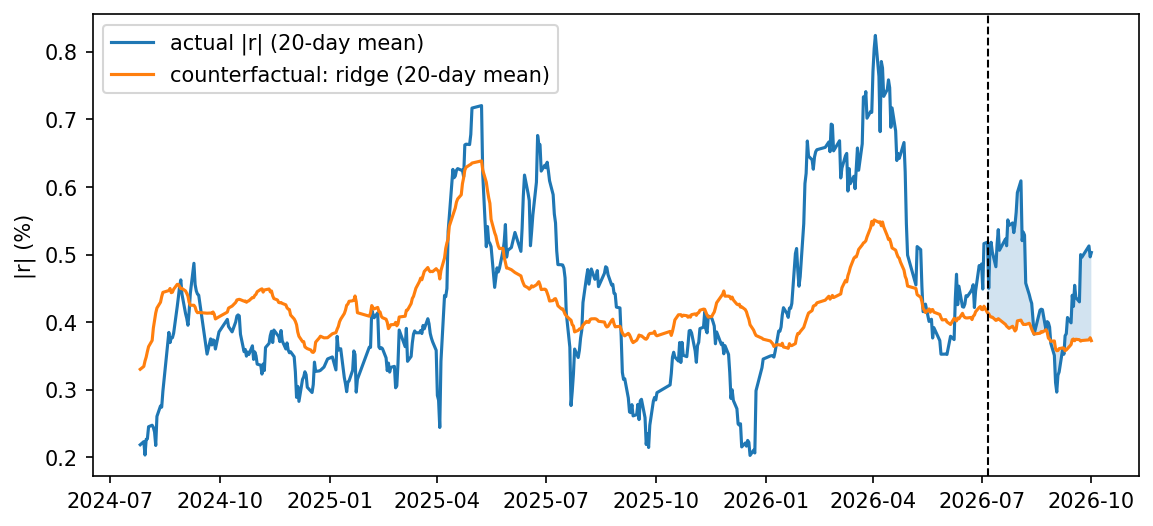
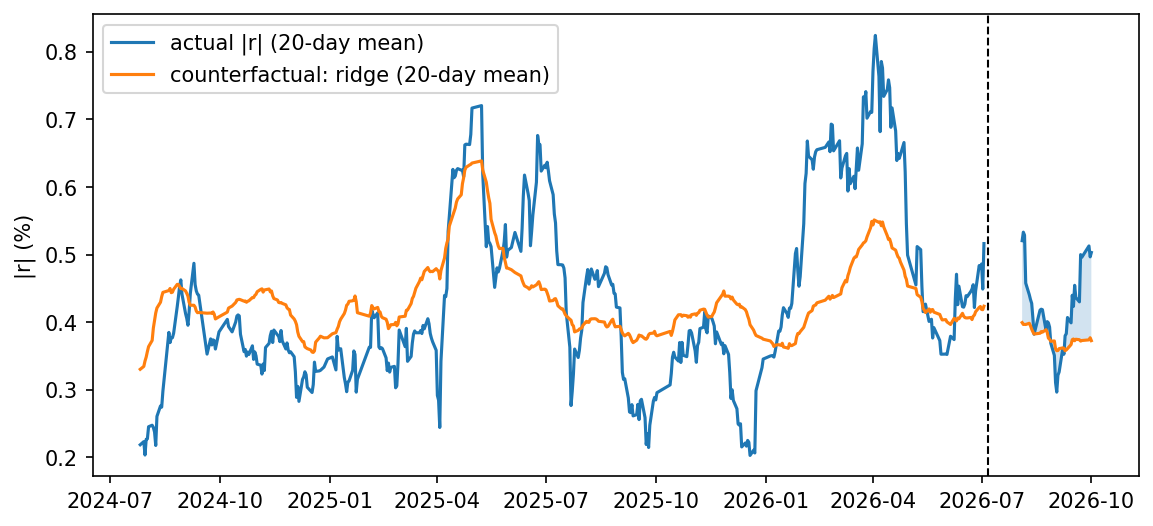
fix: post-hoc inference checks, stale VIX default, rolling means across reform date
Added after seeing results (spec values unchanged, see analysis_spec.md):
- T8: HC3 row, placebo tau range and rejection share, minimum detectable effect.
  Newey-West CIs are too narrow: 21% of placebo dates reject at 5%.
- T7: small-sample p-value and out-of-sample residual for the 60 days before
  the reform. The model already under-predicted before the reform.
- forecast_model.json: vix_default used a one-day-stale value (bug).
- F4, F6: 20-day means no longer average across the reform date.

Changed region(s): [[0.843, 0.3346, 0.9055, 0.6388]]

diff --git a/03_ai.py b/03_ai.py
@@ -34,10 +34,12 @@ def scores(y: pd.Series, yhat, bench) -> dict:
 
 
 def nw_mean(x) -> dict:
-    """평균과 Newey–West(시차 5) 95% 신뢰구간·p값."""
-    r = sm.OLS(np.asarray(x, float), np.ones(len(x))).fit(cov_type="HAC", cov_kwds={"maxlags": 5})
+    """평균과 Newey–West(시차 5) 95% 신뢰구간·p값 (사양). p_small은 소표본 보정 + t분포로 다시 잰 p값."""
+    y, one = np.asarray(x, float), np.ones(len(x))
+    r = sm.OLS(y, one).fit(cov_type="HAC", cov_kwds={"maxlags": 5})
+    small = sm.OLS(y, one).fit(cov_type="HAC", cov_kwds={"maxlags": 5, "use_correction": True}, use_t=True)
     lo, hi = r.conf_int()[0]
-    return {"mean": r.params[0], "lo": lo, "hi": hi, "p": r.pvalues[0], "n": len(x)}
+    return {"mean": r.params[0], "lo": lo, "hi": hi, "p": r.pvalues[0], "p_small": small.pvalues[0], "n": len(x)}
 
 
 # %% AI-1 반사실: 글로벌 요인만으로 '전환이 없었다면'의 |r|. 원화 자신의 과거 변동성은 넣지 않는다.
@@ -73,15 +75,26 @@ def cf(t0: int, n: int = fx.N_MAIN) -> pd.DataFrame:
 post = cf(0)
 placebo = pd.Series({t0: cf(t0).resid.mean() for t0 in fx.placebo_t0(panel)}, name="mean_resid")
 eff = nw_mean(post.resid)
+# 사후 추가 (2026-11-11): 전환 직전 60거래일도 같은 방법(그 전까지 학습)으로 예측한다.
+# 모델이 전환 전부터 낮게 예측하고 있었다면 전환 후 잔차를 효과로 읽을 수 없으므로, 둘의 차이를 함께 보고한다.
+pre60 = cf(-fx.N_MAIN)
+assert pre60.t.max() < 0 <= post.t.min() and not pre60.post.any() and post.post.all()
+both = pd.concat([pre60, post])
+d = sm.OLS(both.resid, sm.add_constant(both.post.astype(float))).fit(cov_type="HAC", cov_kwds={"maxlags": 5})
+assert abs(d.params["post"] - (post.resid.mean() - pre60.resid.mean())) < 1e-9
+d_lo, d_hi = d.conf_int().loc["post"]
 eff = eff | {"model": use, "placebo_n": len(placebo),
-             "placebo_share_abs_ge": (placebo.abs() >= abs(eff["mean"])).mean()}
+             "placebo_share_abs_ge": (placebo.abs() >= abs(eff["mean"])).mean(),
+             "pre60_mean": pre60.resid.mean(), "pre60_n": len(pre60),
+             "diff": d.params["post"], "diff_lo": d_lo, "diff_hi": d_hi, "diff_p": d.pvalues["post"]}
 fx.save(pd.DataFrame([eff]), "T7_cf_effect", index=False)
 fx.save(placebo.rename_axis("t0").to_frame(), "T7_cf_placebo")
 print(pd.DataFrame([eff]).round(4).T)
 
 # %% 그림 F4 실제 vs 반사실 (20일 평균), F5 가짜 시행일 분포
 s = p[p.t < fx.N_MAIN].assign(pred=MODELS[use]().fit(pre[X1], pre.absr).predict(p.loc[p.t < fx.N_MAIN, X1]))
-a, b = s.absr.rolling(20).mean(), s.pred.rolling(20).mean()
+# 20일 평균은 시행일을 넘겨서 내지 않는다 (전환 후 선은 20일째부터). 넘기면 전환 전 값이 음영에 섞인다.
+a, b = (s.groupby(s.t >= 0)[c].transform(lambda x: x.rolling(20).mean()) for c in ("absr", "pred"))
 fig, ax = plt.subplots(figsize=(9, 4))
 ax.plot(s.date, a, label="actual |r| (20-day mean)")
 ax.plot(s.date, b, label=f"counterfactual: {use} (20-day mean)")
@@ -113,12 +126,17 @@ model = ridge().fit(p[X2], p.absr)
 sc, rg = model[0], model[-1]
 last, recent = panel.iloc[-1], panel.absr.iloc[-22:]
 q10, q90 = np.quantile(te.absr - pred["ridge"], [0.1, 0.9])
+# 버그 수정 (2026-11-11): 패널 마지막 행의 VIX는 하루 전 미국 값이다. 기준일 다음 날 예보에 들어갈
+# 값은 기준일 밤의 VIX이므로, 슬라이더 기본값은 원본의 최신 VIX로 둔다.
+vix = pd.read_csv(fx.RAW / "fred_VIXCLS.csv", index_col=0, parse_dates=True).VIXCLS
+vix = pd.to_numeric(vix, errors="coerce").dropna()
+assert last.us_date <= vix.index[-1] <= last.date, f"최신 VIX 날짜 {vix.index[-1]:%Y-%m-%d}가 패널과 맞지 않음"
 spec = {
     "asof": f"{last.date:%Y-%m-%d}", "features": X2,
     "mean": sc.mean_.tolist(), "scale": sc.scale_.tolist(),
     "coef": rg.coef_.tolist(), "intercept": float(rg.intercept_),
     "har": {"har_1": float(recent.iloc[-1]), "har_5": float(recent.iloc[-5:].mean()), "har_22": float(recent.mean())},
-    "close_1530": float(last.close_1530), "vix_default": float(np.exp(last.ln_vix)),
+    "close_1530": float(last.close_1530), "vix_default": float(vix.iloc[-1]),
     "resid_q10": float(q10), "resid_q90": float(q90),
     "tiers": np.quantile(model.predict(p[X2]), [1 / 3, 2 / 3]).tolist(),
 }

diff --git a/02_analysis.py b/02_analysis.py
@@ -43,13 +43,24 @@ print(t6.round(2).T)
 specs = {"±40": (fx.window(p, n=fx.N_ROBUST), "absr"),
          "시행일 앞뒤 5일 제외": (fx.window(p, donut=5), "absr"),
          "r²": (w.assign(r2=w.r ** 2), "r2")}
-placebo = pd.Series({t0: fx.its(fx.window(p, t0)).params["post"] for t0 in fx.placebo_t0(p)}, name="tau")
+fits = {t0: fx.its(fx.window(p, t0)) for t0 in fx.placebo_t0(p)}
+placebo = pd.DataFrame({"tau": {t0: r.params["post"] for t0, r in fits.items()},
+                        "p": {t0: r.pvalues["post"] for t0, r in fits.items()}})
+# 사후 추가 (2026-11-11): 효과가 없어야 할 가짜 시행일에서 p < 0.05가 5%보다 훨씬 자주 나와,
+# Newey–West 신뢰구간이 실제보다 좁다. 그래서 가짜 τ의 분포와 HC3 표준오차를 함께 보고한다.
+# 가짜 창은 서로 겹쳐서 24개가 독립은 아니다 (분위수는 대략적인 범위).
 main = main | {"placebo_n": len(placebo),
-               "placebo_share_abs_ge": (placebo.abs() >= abs(main["tau"])).mean()}  # 가짜 |τ| ≥ 실제 |τ| 비율
-t8 = pd.DataFrame([main] + [fx.its_row(fx.its(d, y), d, y, k) for k, (d, y) in specs.items()])
+               "placebo_share_abs_ge": (placebo.tau.abs() >= abs(main["tau"])).mean(),  # 가짜 |τ| ≥ 실제 |τ| 비율
+               "placebo_q025": placebo.tau.quantile(0.025), "placebo_q975": placebo.tau.quantile(0.975),
+               "placebo_reject_share": (placebo.p < 0.05).mean()}  # 정상이면 0.05 근처
+hc3 = fx.its_row(fx.its(w, cov_type="HC3"), w, "absr", "주 표본 ±60 (HC3 표준오차)")
+assert abs(hc3["tau"] - main["tau"]) < 1e-12, "표준오차만 바꿨는데 τ가 달라짐"
+t8 = pd.DataFrame([main, hc3] + [fx.its_row(fx.its(d, y), d, y, k) for k, (d, y) in specs.items()])
 fx.save(t8, "T8_robustness", index=False)
-fx.save(placebo.rename_axis("t0").to_frame(), "T8_placebo")
-print(t8[["spec", "n", "tau", "tau_lo", "tau_hi", "tau_p", "placebo_share_abs_ge"]].round(3))
+fx.save(placebo.rename_axis("t0"), "T8_placebo")
+print(t8[["spec", "n", "tau", "tau_se", "tau_lo", "tau_hi", "tau_p", "mde_pct_of_pre"]].round(3))
+print(f"가짜 시행일 {len(placebo)}개: τ 2.5~97.5% [{main['placebo_q025']:.3f}, {main['placebo_q975']:.3f}], "
+      f"p < 0.05 비율 {main['placebo_reject_share']:.2f}, |τ| ≥ 실제 비율 {main['placebo_share_abs_ge']:.2f}")
 
 # %% 그림 F2 환율과 일간 절대수익률, F3 분절회귀 적합선, F6 고저폭 추이
 reform = pd.Timestamp(fx.REFORM)
@@ -77,7 +88,8 @@ fig.savefig(fx.FIGS / "F3_its.png", dpi=150, bbox_inches="tight")
 
 fig, ax = plt.subplots(figsize=(9, 4))
 ax.plot(s.date, s.parkinson, lw=0.5, alpha=0.5, label="daily Parkinson σ")
-ax.plot(s.date, s.parkinson.rolling(20).mean(), lw=2, label="20-day mean")
+# 20일 평균은 시행일을 넘겨서 내지 않는다 (전환 후 선은 20일째부터). 넘기면 측정 창이 다른 값이 섞인다.
+ax.plot(s.date, s.groupby(s.t >= 0).parkinson.transform(lambda x: x.rolling(20).mean()), lw=2, label="20-day mean")
 ax.hlines(w.loc[w.post == 0, "parkinson"].mean() * np.sqrt(24 / 17), reform, s.date.max(),
           colors="r", ls=":", label="pre mean × √(24/17)")
 ax.axvline(reform, color="k", ls="--", lw=1)

diff --git a/result.md b/result.md
@@ -2,15 +2,17 @@
 
 사양(`analysis_spec.md`)을 커밋 `00a8190`(브랜치 `fx24`)으로 먼저 고정한 뒤 `01 → 02 → 03`을 처음부터 끝까지 돌렸습니다. 모든 스크립트가 오류 없이 끝났고 내장 검증도 모두 통과했습니다. 숫자는 전부 `outputs/tables`에서 가져왔습니다.
 
+같은 날 결과를 점검한 뒤 네 가지를 고쳤습니다 (사양의 "결과를 본 뒤 추가한 것" 참고). 사양대로 낸 숫자는 하나도 바뀌지 않았고, 아래에서 **사후**라고 표시한 숫자가 새로 붙었습니다.
+
 ## 한 줄 결론
 
-**24시간 전환 뒤 15:30 기준 일간 변동성이 커졌다는 증거는 없습니다.** 다만 표본이 작아 신뢰구간이 넓고, "커지지 않았다"고 말할 수 있는 수준도 아닙니다.
+**24시간 전환 뒤 15:30 기준 일간 변동성이 커졌다는 증거는 없습니다.** 다만 이 설계는 변동성이 두 배쯤 돼야 잡아낼 수 있어서, "커지지 않았다"고 말할 수 있는 수준도 아닙니다.
 
 | 질문 | 결과 | 사양에 따른 판단 |
 |---|---|---|
-| RQ1 일간 변동성 | τ = 0.025%p, 95% CI [−0.227, 0.277], p = 0.85, n = 113 | 확대 증거 없음. 상한은 +0.277%p (전환 전 평균 0.468의 59%) |
+| RQ1 일간 변동성 | τ = 0.025%p, 95% CI [−0.227, 0.277], p = 0.85, n = 113 | 확대 증거 없음. 사양의 상한은 +0.277%p이지만 너무 좁게 잡힌 값이고, 사후 점검으로는 +0.45~0.56%p (전환 전 평균 0.468과 비슷한 크기) |
 | RQ2 고저폭 | +6.3%, 95% CI [−18.5%, +38.7%] vs 기계적 기대치 +18.8% | 기계적 기대치와 구별 안 됨 |
-| RQ3 AI 반사실 | (실제 − 예측) 평균 +0.077%p, CI [0.001, 0.153], p = 0.046 | 방향은 RQ1과 같음(+). 그러나 가짜 시행일의 67%가 이보다 큼 → 효과로 보기 어려움 |
+| RQ3 AI 반사실 | (실제 − 예측) 평균 +0.077%p, CI [0.001, 0.153], p = 0.046 | 방향은 RQ1과 같음(+). 그러나 전환 직전 60일의 잔차가 이미 +0.055라서 차이는 +0.023 (p = 0.71, 사후) → 효과로 보기 어려움 |
 
 ## 1. 계획이 반영됐는지
 
@@ -41,15 +43,20 @@
 
 단순 평균은 전환 전 0.468% → 후 0.455%로 거의 같습니다. 같은 기간 VIX는 내렸습니다 (ln VIX 2.90 → 2.77).
 
-| 표본 | n | τ (%p) | 95% CI | p | 전환 전 평균 대비 |
-|---|---|---|---|---|---|
-| 주 표본 ±60 | 113 | 0.025 | [−0.227, 0.277] | 0.85 | +5.4% |
-| ±40 | 76 | 0.059 | [−0.245, 0.364] | 0.70 | +13.1% |
-| 시행일 앞뒤 5일 제외 | 103 | 0.063 | [−0.162, 0.287] | 0.58 | +14.1% |
-| 종속변수 r² | 113 | 0.045 | [−0.504, 0.594] | 0.87 | +10.3% |
+| 표본 | n | τ (%p) | 표준오차 | 95% CI | p | 전환 전 평균 대비 | 최소검출효과 |
+|---|---|---|---|---|---|---|---|
+| 주 표본 ±60 | 113 | 0.025 | 0.129 | [−0.227, 0.277] | 0.85 | +5.4% | 77% |
+| 주 표본 ±60, HC3 표준오차 (사후) | 113 | 0.025 | 0.219 | [−0.404, 0.454] | 0.91 | +5.4% | 131% |
+| ±40 | 76 | 0.059 | 0.155 | [−0.245, 0.364] | 0.70 | +13.1% | 96% |
+| 시행일 앞뒤 5일 제외 | 103 | 0.063 | 0.114 | [−0.162, 0.287] | 0.58 | +14.1% | 72% |
+| 종속변수 r² | 113 | 0.045 | 0.280 | [−0.504, 0.594] | 0.87 | +10.3% | 180% |
+
+최소검출효과는 양측 5%, 검정력 80%로 잡아낼 수 있는 가장 작은 τ를 전환 전 평균 대비 %로 적은 값입니다 (2.8 × 표준오차).
 
 - 추세 변화 κ = 0.005 [−0.018, 0.029], 유의하지 않음
 - 가짜 시행일 24개 모두 \|τ\|가 실제(0.025) 이상입니다 (비율 1.00). 가짜 τ는 −0.38~+0.89에 퍼져 있어, 실제 τ는 평소 흔들림보다 작습니다.
+- **사양의 신뢰구간은 너무 좁습니다 (사후).** 효과가 없어야 할 가짜 시행일 24개 중 21%가 p < 0.05로 기각됩니다 (정상이면 5% 근처). 가짜 τ의 2.5~97.5% 범위는 [−0.373, +0.555]로, 사양의 신뢰구간보다 두 배쯤 넓습니다. HC3 표준오차로는 [−0.404, +0.454]입니다. 가짜 창은 서로 겹쳐서 24개가 독립은 아니므로 이 범위는 대략적인 값입니다.
+- 그래서 논문에는 "상한 +0.277"만 쓰지 말고 HC3 구간과 가짜 시행일 범위를 함께 써야 합니다. 어느 쪽으로 봐도 결론(확대 증거 없음)은 같고, 달라지는 것은 "얼마나 큰 효과까지 배제하지 못하는가"입니다.
 - 통제변수 가운데 ln VIX만 방향이 뚜렷합니다 (+0.99, p = 0.065). 나머지는 유의하지 않습니다.
 
 ## 4. 분석 2: 고저폭 (T6)
@@ -66,7 +73,9 @@ Parkinson σ 평균은 0.592% → 0.602%입니다. 로그 회귀의 τ는 +6.3% 
 
 - 릿지가 기준선을 이기긴 했지만 MAE 차이는 1.2%뿐입니다. 글로벌 요인의 설명력이 낮다는 점을 논문에 같이 적어야 합니다.
 - 전환 후 57일의 (실제 − 예측) 평균은 +0.077%p (p = 0.046)입니다. VIX가 내려 모델이 더 낮은 변동성을 예측했는데 실제는 그만큼 내리지 않았다는 뜻입니다.
-- 하지만 가짜 시행일 24개 중 16개(67%)의 평균 잔차가 이보다 큽니다 (최대 +0.283). 가짜 잔차는 2025년 말~2026년 초 내내 양수로 치우쳐 있어, 모델이 전환과 무관하게 최근 변동성을 낮게 예측합니다. 따라서 p = 0.046만 떼어 "AI 분석에서는 유의하게 확대"라고 쓰면 안 됩니다.
+- 하지만 가짜 시행일 24개 중 16개(67%)의 평균 잔차가 이보다 큽니다 (최대 +0.283). 가짜 잔차는 2025년 말~2026년 초 내내 양수로 치우쳐 있어, 모델이 전환과 무관하게 최근 변동성을 낮게 예측합니다.
+- **전환 직전과 비교하면 차이가 없습니다 (사후).** 전환 직전 60거래일(56일)을 같은 방법으로 예측하면 평균 잔차가 이미 +0.055입니다. 전환 후와의 차이는 +0.023 [−0.097, 0.142], p = 0.71입니다.
+- p = 0.046도 소표본 보정과 t분포를 쓰면 0.053으로 5%를 넘습니다 (사후). 따라서 p = 0.046만 떼어 "AI 분석에서는 유의하게 확대"라고 쓰면 안 됩니다.
 
 ## 6. AI-2: 예보 (T9, `forecast_model.json`)
 
@@ -77,10 +86,12 @@ Parkinson σ 평균은 0.592% → 0.602%입니다. 로그 회귀의 τ는 +6.3% 
 | HAR | 0.2911 | 0.3772 | 0.006 |
 | 릿지 (배포) | 0.2740 | 0.3745 | 0.020 |
 
-릿지가 HAR보다 조금 낫지만 22일 평균을 거의 못 이깁니다 (R² 0.02). 데모로는 쓸 수 있고, 예측력을 내세울 수준은 아닙니다. 배포 JSON은 기준일 2026-10-30, 종가 1,334.3원, VIX 기본값 17.2, 80% 범위 잔차 [−0.311, +0.519], 자체 검증 3세트 (0.3218 / 0.6015 / 0.8735)를 담고 있습니다.
+릿지가 HAR보다 조금 낫지만 22일 평균을 거의 못 이깁니다 (R² 0.02). 데모로는 쓸 수 있고, 예측력을 내세울 수준은 아닙니다. 배포 JSON은 기준일 2026-10-30, 종가 1,334.3원, VIX 기본값 19.42, 80% 범위 잔차 [−0.311, +0.519], 자체 검증 3세트 (0.3218 / 0.6015 / 0.8735)를 담고 있습니다. VIX 기본값은 처음에 하루 묵은 값(17.2, 10-29)이 들어가던 것을 최신값(10-30)으로 고쳤습니다. 계수와 자체 검증 값은 그대로입니다.
+
+그림 F4와 F6의 20일 평균은 시행일을 넘겨서 내지 않도록 고쳤습니다. 전환 후 선은 20일째부터 그려집니다.
 
 ## 7. 남은 일
 
-- 결과물(`outputs/`, 이 파일)은 아직 커밋하지 않았습니다. 브랜치 `fx24`도 `main`에 합치거나 푸시하지 않았습니다.
+- 브랜치 `fx24`는 푸시했고, `main`에는 아직 합치지 않았습니다.
 - 논문 서술 방향: "확대 증거 없음 + 검정력 한계"가 주 결론이고, AI-1은 가짜 시행일 결과와 함께 보조 증거로만 씁니다.
 - 랜딩페이지용 내보내기 4개 파일과 JS 자체 검증은 12월 작업입니다.

diff --git a/analysis_spec.md b/analysis_spec.md
@@ -79,6 +79,17 @@
 - `01_data.py` 검증 (1)이 정의를 보도 수치로 확인합니다. 02:00·06:00 종가는 거래 시작일에 기록됩니다 (2024-07-01, 2024-07-31, 2024-12-03, 2026-07-06). 2024-12-03 고가 1,442.0원은 계엄 선포(22:27) 뒤 값이라 고저가에 야간 거래가 들어갑니다. 2026-07-06 시가 1,527.6원은 06:00 시작가입니다. 검증 (4)는 전 기간에서 끝 종가가 같은 날보다 다음 날 시가에 가까운지 봅니다.
 - 근거: 2024 연장 후 정의는 강현주(2026)의 ECOS 자료 설명 (고저가 측정 창 6.5시간 → 17시간), 24시간 전환 후 정의는 파이낸셜뉴스(뉴스1) 2026-07-05 Q&A (시가·고저가 06:00~다음 날 06:00, 15:30 종가 당분간 유지, 공휴일 거래).
 
+## 결과를 본 뒤 추가한 것 (2026-11-11)
+
+위 사양대로 낸 숫자는 그대로 두고, 아래만 덧붙였습니다. 논문에서는 "사후 점검"으로 구분해 씁니다.
+
+| 추가 | 이유 | 산출 |
+|---|---|---|
+| HC3 표준오차 행, 가짜 τ의 2.5~97.5% 범위, 가짜 시행일의 p < 0.05 비율, 최소검출효과 | 가짜 시행일의 21%가 p < 0.05로 기각돼 Newey–West 신뢰구간이 실제보다 좁음 | T8 |
+| AI-1에 소표본 보정 + t분포 p값, 전환 직전 60거래일의 표본 밖 잔차와 전환 후와의 차이 | 모델이 전환 전부터 낮게 예측하고 있어, 전환 후 잔차만으로는 효과를 가릴 수 없음 | T7 |
+| 예보 JSON의 VIX 기본값을 원본의 최신값으로 | 버그: 패널 마지막 행의 하루 묵은 값이 들어감 (사양은 "최신 VIX") | forecast_model.json |
+| F4·F6의 20일 평균을 시행일 앞뒤로 따로 계산 | 전환 후 첫 20일에 전환 전 값이 섞임 | F4, F6 |
+
 ## 범위에서 뺀 것 (논문에는 한계·향후 과제로만)
 
 - 분석 3 (KRX 달러선물 아침 갭): 별도 자료가 필요하고 원래 선택 항목이었습니다.
